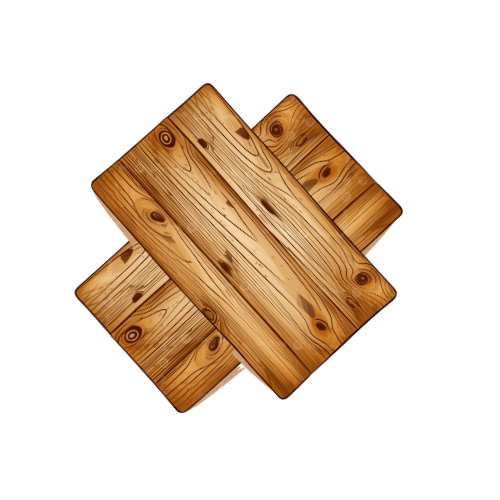
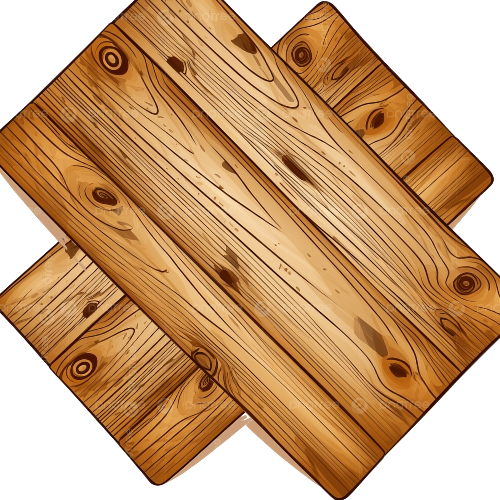
ATT SITE1

diff --git a/filiacoes.html b/filiacoes.html
@@ -815,9 +815,11 @@ body{
 </style>
 
 <style id="filiacao-lotada-final">
+/* Filiação 03/03 — placa ocupa o card inteiro, de ponta a ponta */
 .aff.filiacao-lotada{
   position:relative !important;
   overflow:hidden !important;
+  isolation:isolate !important;
 }
 .aff.filiacao-lotada .filiacao-full-overlay{
   position:absolute !important;
@@ -825,29 +827,33 @@ body{
   width:100% !important;
   height:100% !important;
   max-width:none !important;
+  max-height:none !important;
+  margin:0 !important;
+  padding:0 !important;
   object-fit:cover !important;
   object-position:center !important;
-  z-index:8 !important;
+  display:block !important;
+  z-index:20 !important;
   pointer-events:none !important;
+}
+.aff.filiacao-lotada .filiacao-photo-wrap{
+  position:relative !important;
+  z-index:1 !important;
 }
 .aff.filiacao-lotada .name{
   position:relative !important;
-  z-index:10 !important;
+  z-index:25 !important;
   color:transparent !important;
   -webkit-text-fill-color:transparent !important;
 }
 .aff.filiacao-lotada .count{
   position:relative !important;
-  z-index:11 !important;
+  z-index:30 !important;
   display:block !important;
   color:#d00000 !important;
   -webkit-text-fill-color:#d00000 !important;
   font-weight:700 !important;
-  text-shadow:0 1px 2px rgba(255,255,255,.65) !important;
-}
-.aff.filiacao-lotada .filiacao-photo-wrap{
-  position:relative !important;
-  z-index:1 !important;
+  text-shadow:0 1px 2px rgba(255,255,255,.8) !important;
 }
 </style>
 </head>
